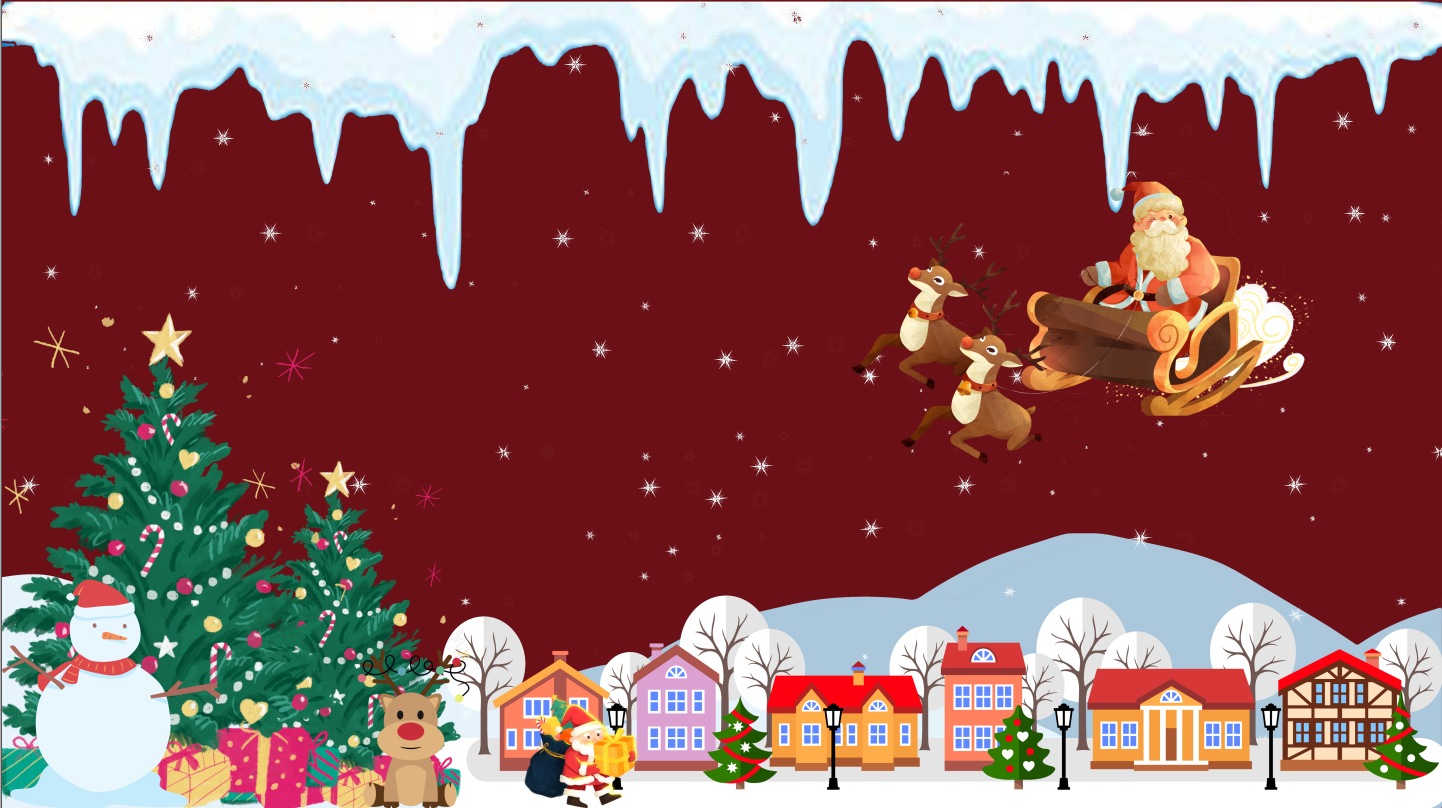
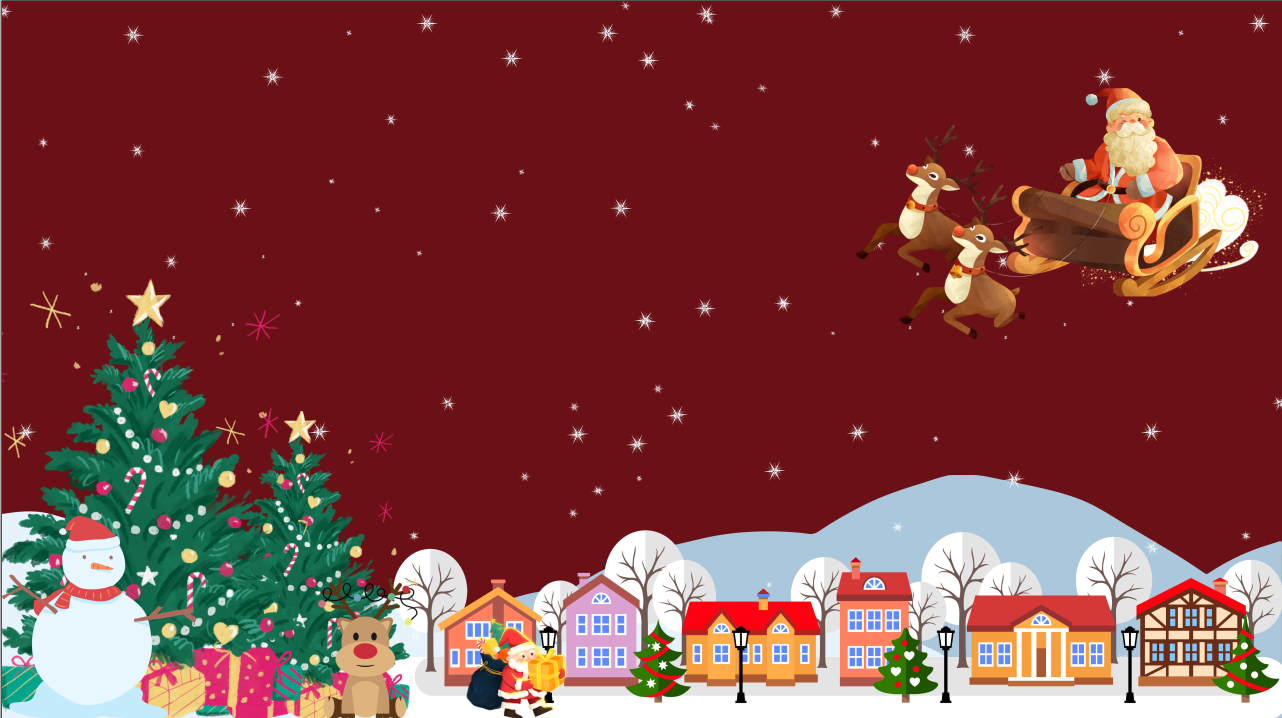
update content huu 12-7-2024

diff --git a/lib/bootstrap/index.html b/lib/bootstrap/index.html
@@ -8,18 +8,13 @@
     <link rel="stylesheet" href="/lib/bootstrap/css/bootstrap.min.css">
 </head>
 <body>
-    <!-- Navigation -->
+    <!-- Start Navigation -->
     <nav class="navbar navbar-expand-lg navbar-light bg-light fixed-top">
         <div class="container">
-            <!-- Logo căn trái -->
             <a class="navbar-brand" href="#">Mock</a>
-            
-            <!-- Nút bật/tắt menu trên màn hình nhỏ -->
             <button class="navbar-toggler" type="button" data-bs-toggle="collapse" data-bs-target="#navbarResponsive" aria-controls="navbarResponsive" aria-expanded="false" aria-label="Toggle navigation">
                 <span class="navbar-toggler-icon"></span>
             </button>
-            
-            <!-- Menu điều hướng căn phải -->
             <div class="collapse navbar-collapse" id="navbarResponsive">
                 <ul class="navbar-nav ms-auto">
                     <li class="nav-item active">
@@ -38,9 +33,99 @@
             </div>
         </div>
     </nav>
-    
+    <!-- End Navigation -->
+
+    <!-- Start Content -->
+    <div class="container mt-5 pt-4">
+        <div class="row" data-masonry='{"percentPosition": true}'>
+            <div class="col-sm-6 col-lg-4 mb-4" style="position: absolute; left: 0%; top: 0px;">
+                <div class="card">
+                  <svg class="bd-placeholder-img card-img-top" width="100%" height="200" xmlns="http://www.w3.org/2000/svg" role="img" aria-label="Placeholder: Image cap" preserveAspectRatio="xMidYMid slice" focusable="false"><title>Placeholder</title><rect width="100%" height="100%" fill="#868e96"></rect><text x="50%" y="50%" fill="#dee2e6" dy=".3em">Image cap</text></svg>
+          
+                  <div class="card-body">
+                    <h5 class="card-title">Card title that wraps to a new line</h5>
+                    <p class="card-text">This is a longer card with supporting text below as a natural lead-in to additional content. This content is a little bit longer.</p>
+                  </div>
+                </div>
+              </div>
+              <div class="col-sm-6 col-lg-4 mb-4" style="position: absolute; left: 33.3317%; top: 0px;">
+                <div class="card p-3">
+                  <figure class="p-3 mb-0">
+                    <blockquote class="blockquote">
+                      <p>A well-known quote, contained in a blockquote element.</p>
+                    </blockquote>
+                    <figcaption class="blockquote-footer mb-0 text-muted">
+                      Someone famous in <cite title="Source Title">Source Title</cite>
+                    </figcaption>
+                  </figure>
+                </div>
+              </div>
+              <div class="col-sm-6 col-lg-4 mb-4" style="position: absolute; left: 66.6633%; top: 0px;">
+                <div class="card">
+                  <svg class="bd-placeholder-img card-img-top" width="100%" height="200" xmlns="http://www.w3.org/2000/svg" role="img" aria-label="Placeholder: Image cap" preserveAspectRatio="xMidYMid slice" focusable="false"><title>Placeholder</title><rect width="100%" height="100%" fill="#868e96"></rect><text x="50%" y="50%" fill="#dee2e6" dy=".3em">Image cap</text></svg>
+          
+                  <div class="card-body">
+                    <h5 class="card-title">Card title</h5>
+                    <p class="card-text">This card has supporting text below as a natural lead-in to additional content.</p>
+                    <p class="card-text"><small class="text-muted">Last updated 3 mins ago</small></p>
+                  </div>
+                </div>
+              </div>
+              <div class="col-sm-6 col-lg-4 mb-4" style="position: absolute; left: 33.3317%; top: 201px;">
+                <div class="card bg-primary text-white text-center p-3">
+                  <figure class="mb-0">
+                    <blockquote class="blockquote">
+                      <p>A well-known quote, contained in a blockquote element.</p>
+                    </blockquote>
+                    <figcaption class="blockquote-footer mb-0 text-white">
+                      Someone famous in <cite title="Source Title">Source Title</cite>
+                    </figcaption>
+                  </figure>
+                </div>
+              </div>
+              <div class="col-sm-6 col-lg-4 mb-4" style="position: absolute; left: 33.3317%; top: 370px;">
+                <div class="card text-center">
+                  <div class="card-body">
+                    <h5 class="card-title">Card title</h5>
+                    <p class="card-text">This card has a regular title and short paragraph of text below it.</p>
+                    <p class="card-text"><small class="text-muted">Last updated 3 mins ago</small></p>
+                  </div>
+                </div>
+              </div>
+              <div class="col-sm-6 col-lg-4 mb-4" style="position: absolute; left: 66.6633%; top: 402px;">
+                <div class="card">
+                  <svg class="bd-placeholder-img card-img" width="100%" height="260" xmlns="http://www.w3.org/2000/svg" role="img" aria-label="Placeholder: Card image" preserveAspectRatio="xMidYMid slice" focusable="false"><title>Placeholder</title><rect width="100%" height="100%" fill="#868e96"></rect><text x="50%" y="50%" fill="#dee2e6" dy=".3em">Card image</text></svg>
+          
+                </div>
+              </div>
+              <div class="col-sm-6 col-lg-4 mb-4" style="position: absolute; left: 0%; top: 410px;">
+                <div class="card p-3 text-end">
+                  <figure class="mb-0">
+                    <blockquote class="blockquote">
+                      <p>A well-known quote, contained in a blockquote element.</p>
+                    </blockquote>
+                    <figcaption class="blockquote-footer mb-0 text-muted">
+                      Someone famous in <cite title="Source Title">Source Title</cite>
+                    </figcaption>
+                  </figure>
+                </div>
+              </div>
+              <div class="col-sm-6 col-lg-4 mb-4" style="position: absolute; left: 33.3317%; top: 548px;">
+                <div class="card">
+                  <div class="card-body">
+                    <h5 class="card-title">Card title</h5>
+                    <p class="card-text">This is another card with title and supporting text below. This card has some additional content to make it slightly taller overall.</p>
+                    <p class="card-text"><small class="text-muted">Last updated 3 mins ago</small></p>
+                  </div>
+                </div>
+              </div>
+        </div>
+    </div>
+    <!-- End Content -->
 
     <script src="/lib/bootstrap/js/bootstrap.bundle.min.js"></script>
-    <script src="/script.js"></script>
+    <script src="https://cdn.jsdelivr.net/npm/masonry-layout@4.2.2/dist/masonry.pkgd.min.js"></script>
 </body>
 </html>
+
+

diff --git a/style.css b/style.css
@@ -1,18 +1,15 @@
-/* style.css */
-
 body {
     margin: 0;
     padding: 0;
-    background: url('/images/home.png') no-repeat center center fixed;
-    background-size: cover;
+    height: 200vh;
+    background: url("/images/home.png") no-repeat center top;
+    background-size: contain;
+    background-attachment: scroll;
 }
 
 .carousel-item {
-	height: 65vh;
-	min-height: 350px;
-	background: no-repeat center center scroll;
-	-webkit-background-size: cover;
-	-moz-background-size: cover;
-	-o-background-size: cover;
-	background-size: cover;
-  }
+    height: 65vh;
+    min-height: 350px;
+    background: no-repeat center center scroll;
+    background-size: cover;
+}
